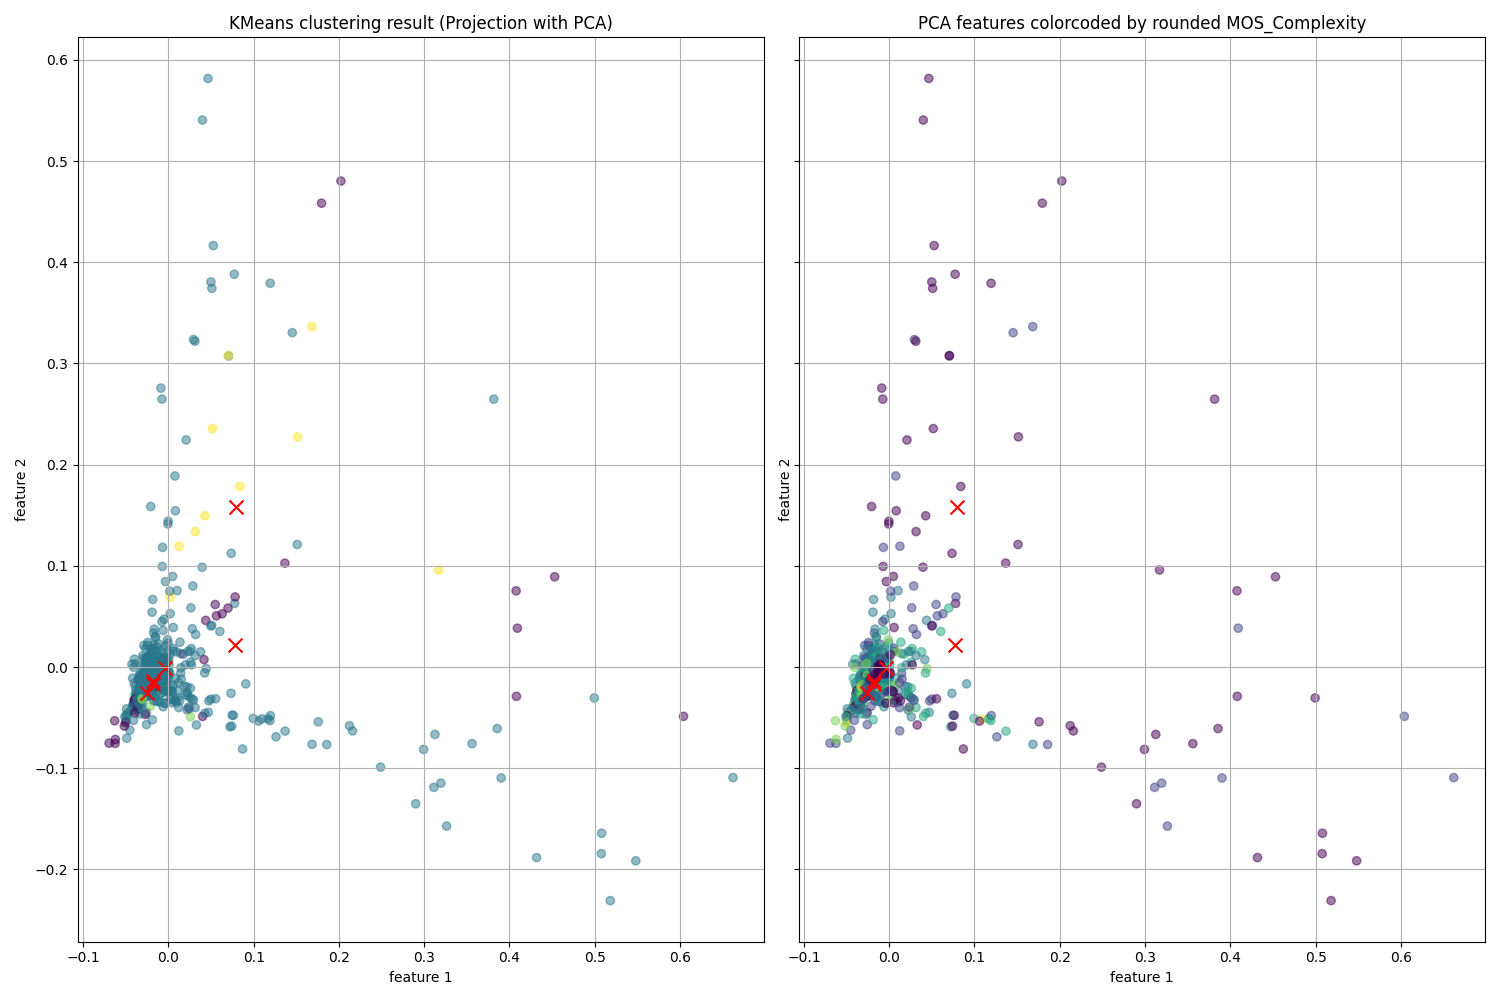
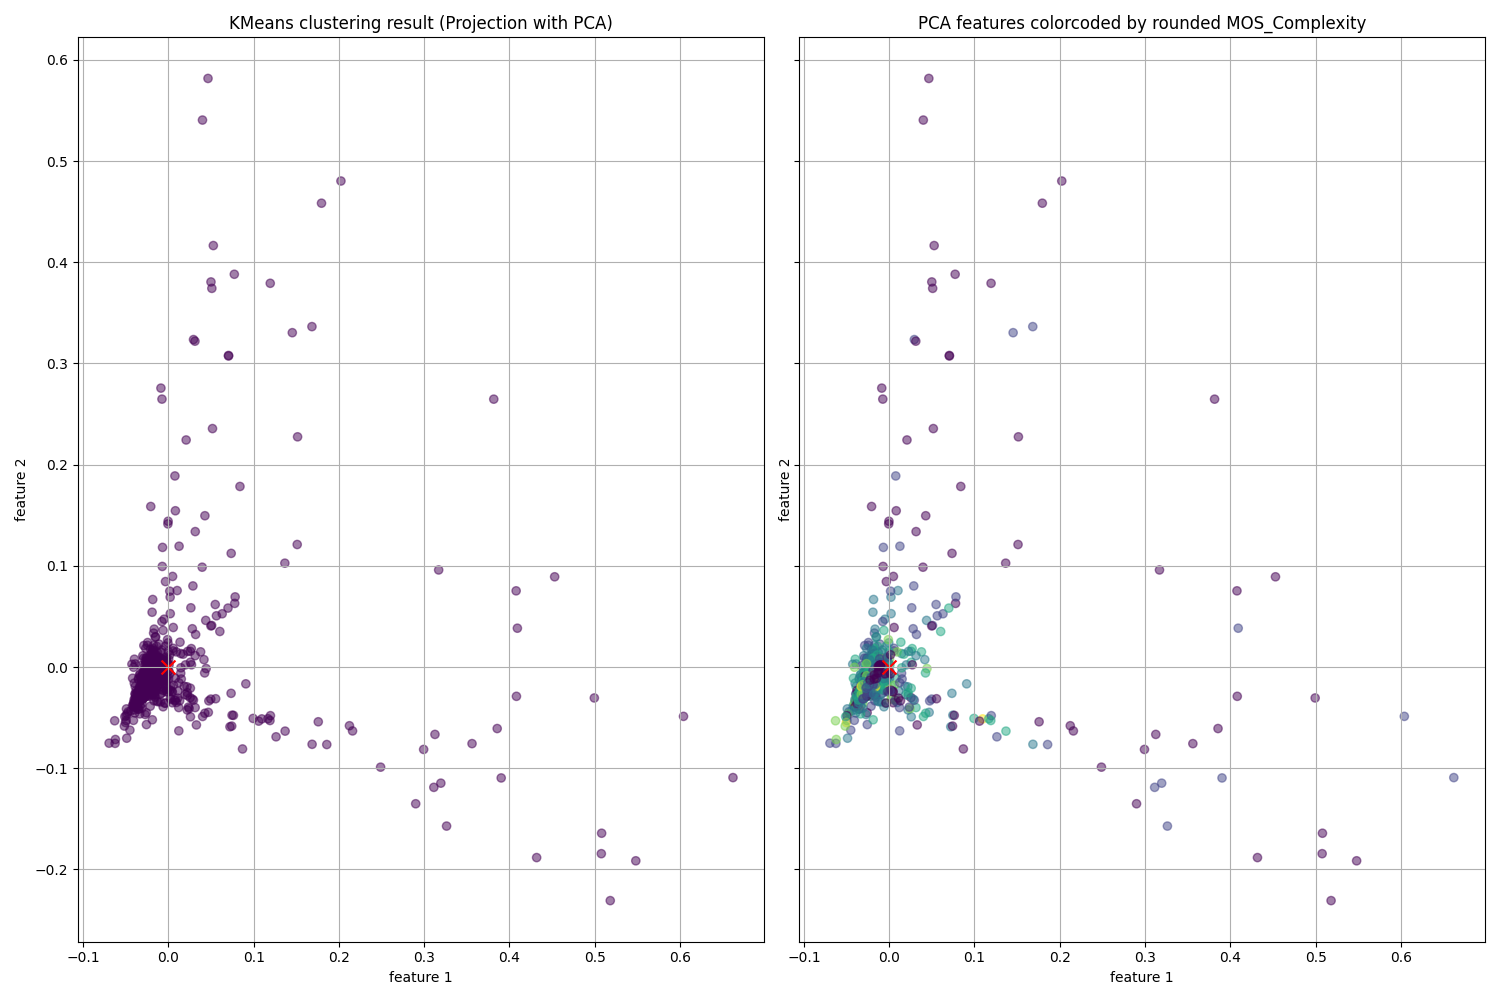
implement mean shift clustering

diff --git a/src/visualize_data.py b/src/visualize_data.py
@@ -28,7 +28,7 @@ def visualize_data():
 
     # KMeans Clustering and PCA
     cls_kmeans, reduced_features, reduced_cluster_centers = clustering.clustering_wrapper(
-        features, 'kmeans', 'PCA')
+        features, 'mean_shift', 'PCA')
 
     # Plot cluster result against targets
     fig, ax = plt.subplots(1, 2, sharex=True, sharey=True, figsize=(15, 10))
@@ -69,7 +69,7 @@ def visualize_data():
             df_ratings.MOS_Complexity.values.round(0),
             cls_kmeans.predict(features)))
     # Evaluate silhouette score
-    print(silhouette_score(features, labels=cls_kmeans.predict(features)))
+    #print(silhouette_score(features, labels=cls_kmeans.predict(features)))
 
 
 if __name__ == "__main__":

diff --git a/src/utils/clustering.py b/src/utils/clustering.py
@@ -1,4 +1,4 @@
-from sklearn.cluster import AffinityPropagation, MiniBatchKMeans
+from sklearn.cluster import AffinityPropagation, MeanShift, MiniBatchKMeans
 from sklearn.decomposition import PCA
 
 
@@ -26,6 +26,10 @@ def clustering_wrapper(features, cluster_method='kmeans', dim_reduc='PCA'):
         sklearn_cls.predict(features)
     elif cluster_method == 'AP':
         sklearn_cls = AffinityPropagation(random_state=0)
+        sklearn_cls.fit(features)
+        sklearn_cls.predict(features)
+    elif cluster_method == 'mean_shift':
+        sklearn_cls = MeanShift()
         sklearn_cls.fit(features)
         sklearn_cls.predict(features)
     else:
